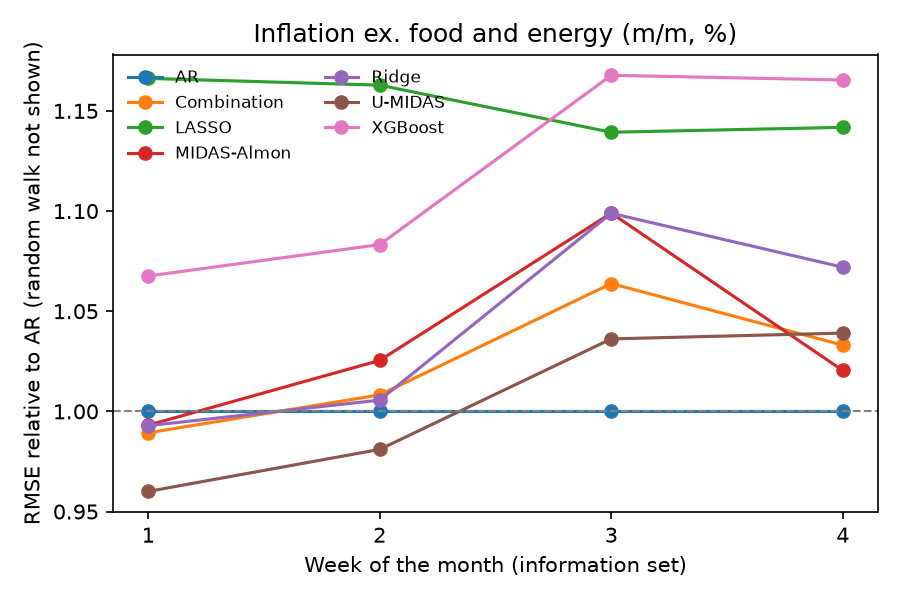
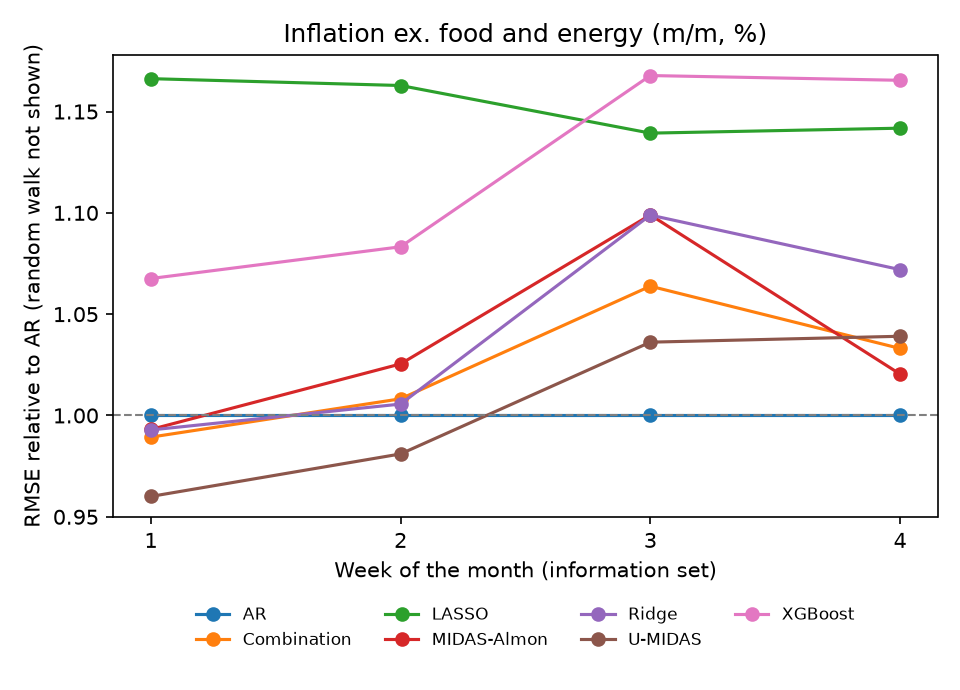
Move chart legend below the plot

diff --git a/src/nowcast/plots.py b/src/nowcast/plots.py
@@ -18,14 +18,14 @@ def _save(fig, path) -> Path:
 
 
 def rel_rmse_by_week(table, target: str, path) -> Path:
-    fig, ax = plt.subplots(figsize=(6, 4))
+    fig, ax = plt.subplots(figsize=(6.4, 4.6))
     for model, g in table[table["model"] != "RW"].groupby("model"):
         g = g.sort_values("week")
         ax.plot(g["week"], g["rel_rmse"], marker="o", label=model)
     ax.axhline(1.0, c="grey", ls="--", lw=1)
     ax.set(xlabel="Week of the month (information set)", ylabel="RMSE relative to AR (random walk not shown)", xticks=[1, 2, 3, 4],
            title=LABELS.get(target, target))
-    ax.legend(frameon=False, fontsize=8, ncol=2)
+    ax.legend(frameon=False, fontsize=8, ncol=4, loc="upper center", bbox_to_anchor=(0.5, -0.16))
     return _save(fig, path)
 
 
